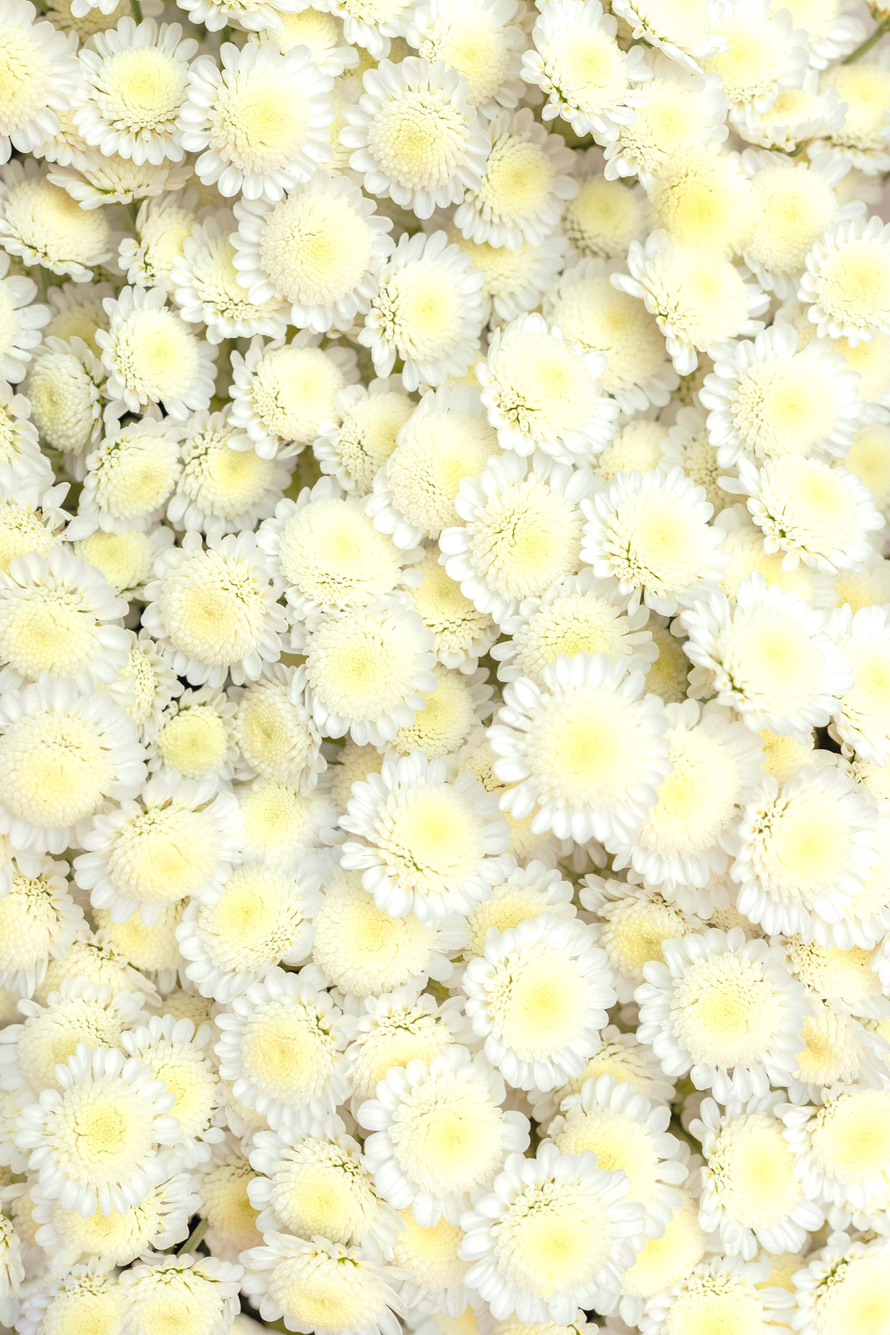
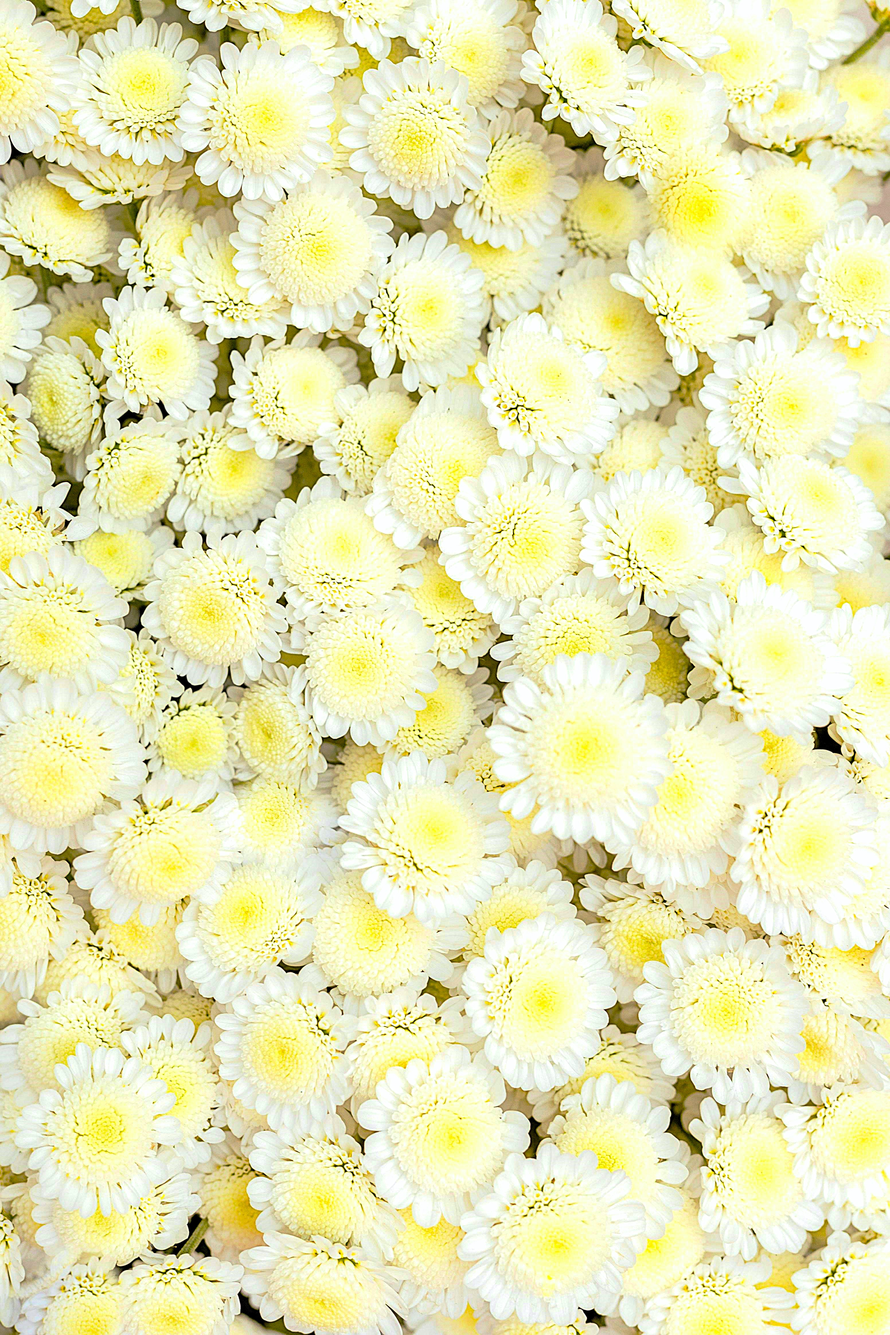
lan6

diff --git a/index.html b/index.html
@@ -16,10 +16,13 @@
 
 <body>
     <div class="container text-center">
-        <div class="font1 text-[38px] lg:text-[60px] " data-aos="fade-right">
+        <div class="content">
+
+        </div>
+        <div class="font1 text-[42px] lg:text-[60px] " data-aos="fade-right">
             Save The Date
         </div>
-        <div class="font2 text-[28px] lg:text-[38px] " data-aos="fade-left">
+        <div class="font2 text-[32px] lg:text-[38px] " data-aos="fade-left">
             Quản Giỏi & Tạ Trang
         </div>
         <div class="flex justify-center " data-aos="fade-down">
@@ -44,7 +47,7 @@
                 <div>25</div>
             </div>
         </div>
-        <div class="font2 lg:mt-[10px] lg:text-[20px]" data-aos="fade-left">(Ngày 12 Tháng 2 Âm lịch, Năm ẤT
+        <div class="font2 lg:mt-[10px] lg:text-[20px] text-[24px]" data-aos="fade-left">(Ngày 12 Tháng 2 Âm lịch, Năm ẤT
             Tỵ.)</div>
     </div>
     <script src="https://unpkg.com/aos@next/dist/aos.js"></script>

diff --git a/style.css b/style.css
@@ -1,4 +1,5 @@
 .container {
+    position: relative;
     background-image: url('./imgs/pexels-karolina-grabowska-4622064.jpg');
     background-repeat: no-repeat;
     height: 100vh;
@@ -6,15 +7,23 @@
     background-size: cover;
 }
 
+.container .content {
+    background-color: white;
+    opacity: 0.5;
+    height: 100vh;
+    position: absolute;
+    width: 100vw;
+}
+
 .font1 {
     font-family: "Love Light", serif;
-    font-weight: 550;
+    font-weight: 500;
     font-style: normal;
 }
 
 .font2 {
     font-family: "Ms Madi", serif;
-    font-weight: 550;
+    font-weight: 500;
     font-style: normal;
     margin-bottom: 10px;
 }
